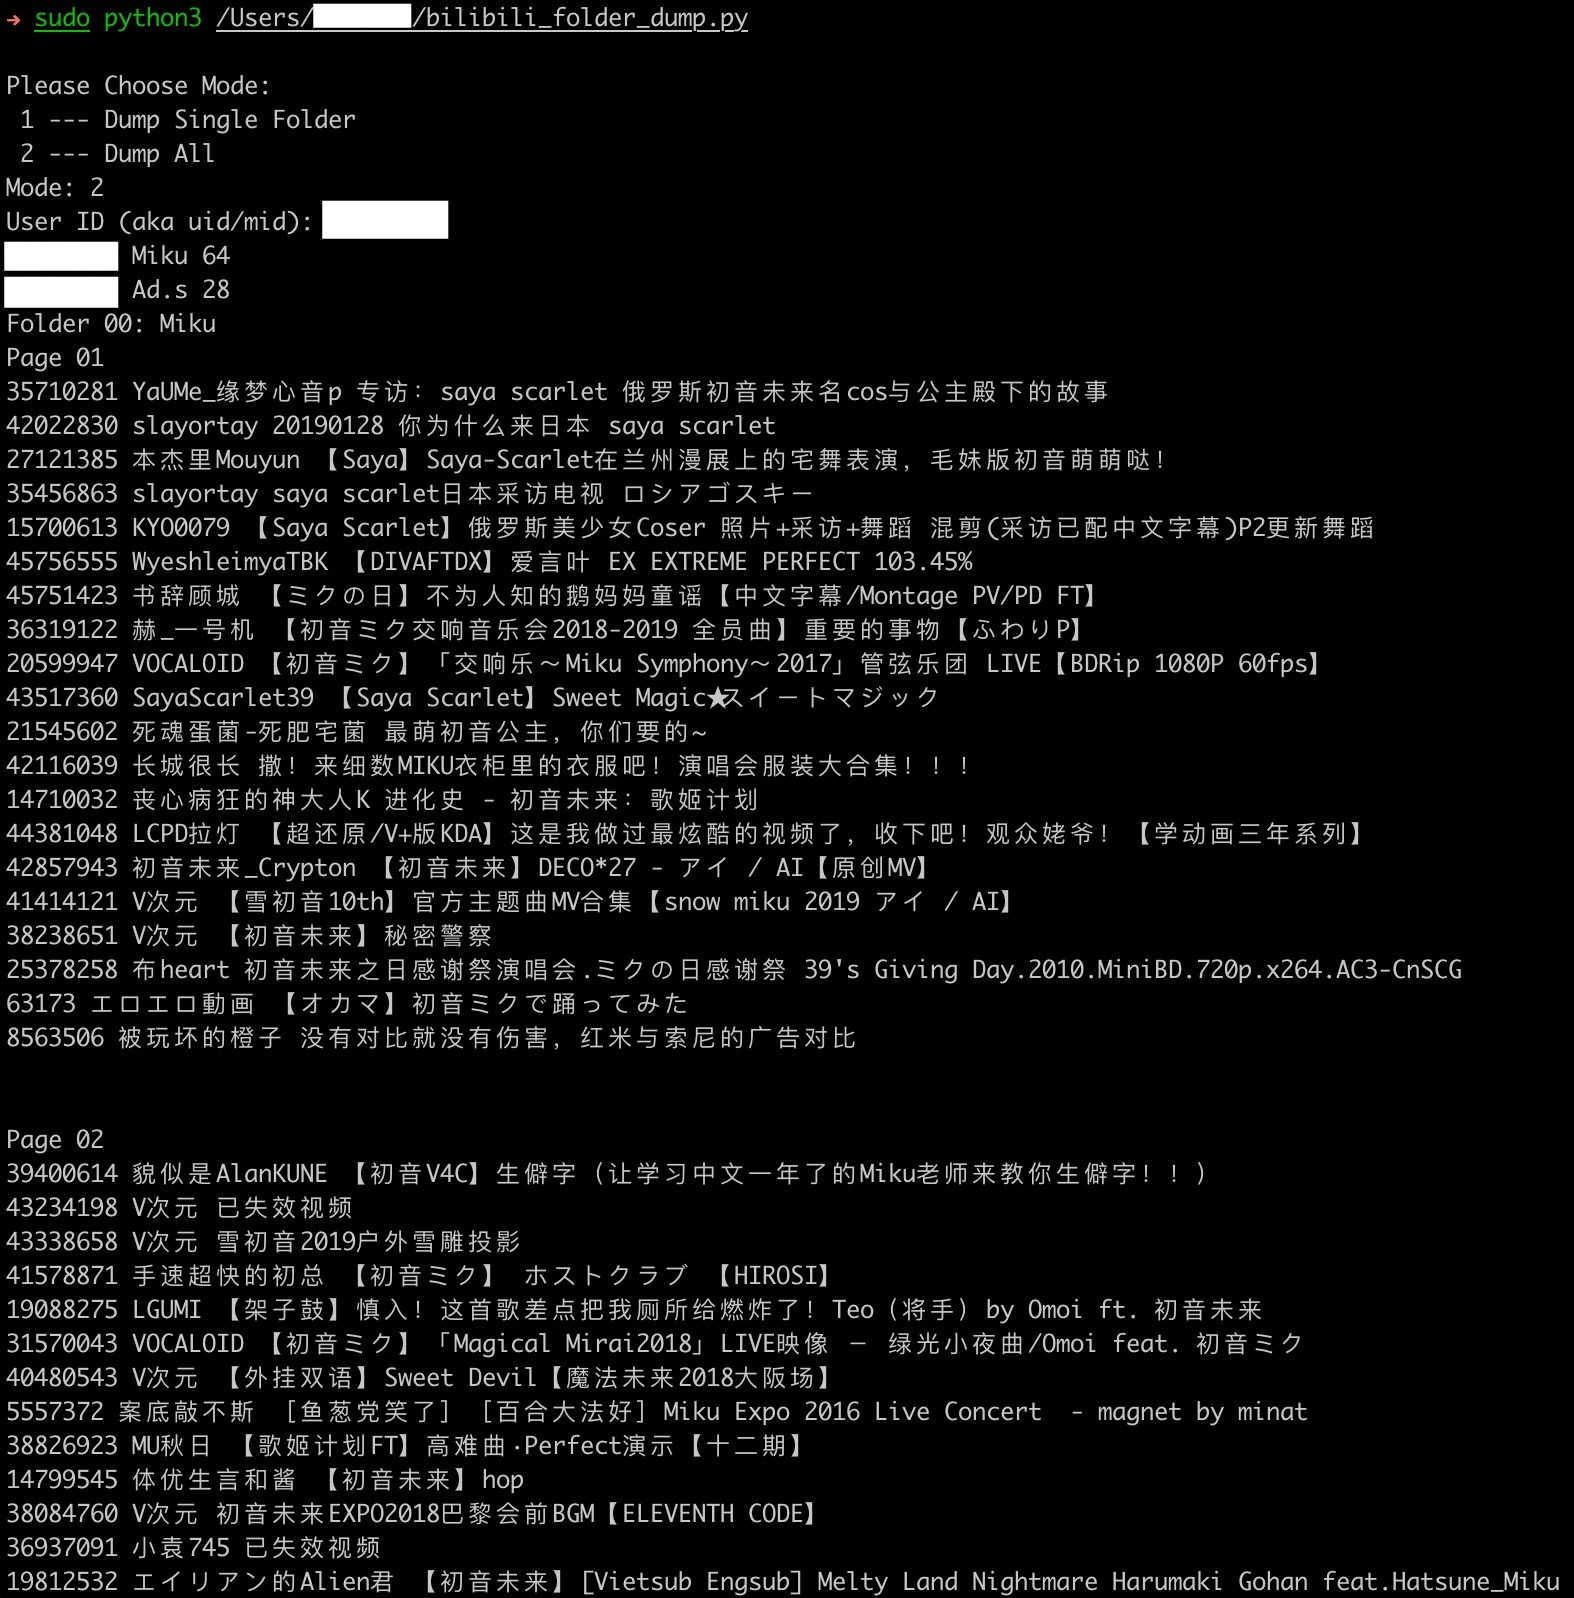
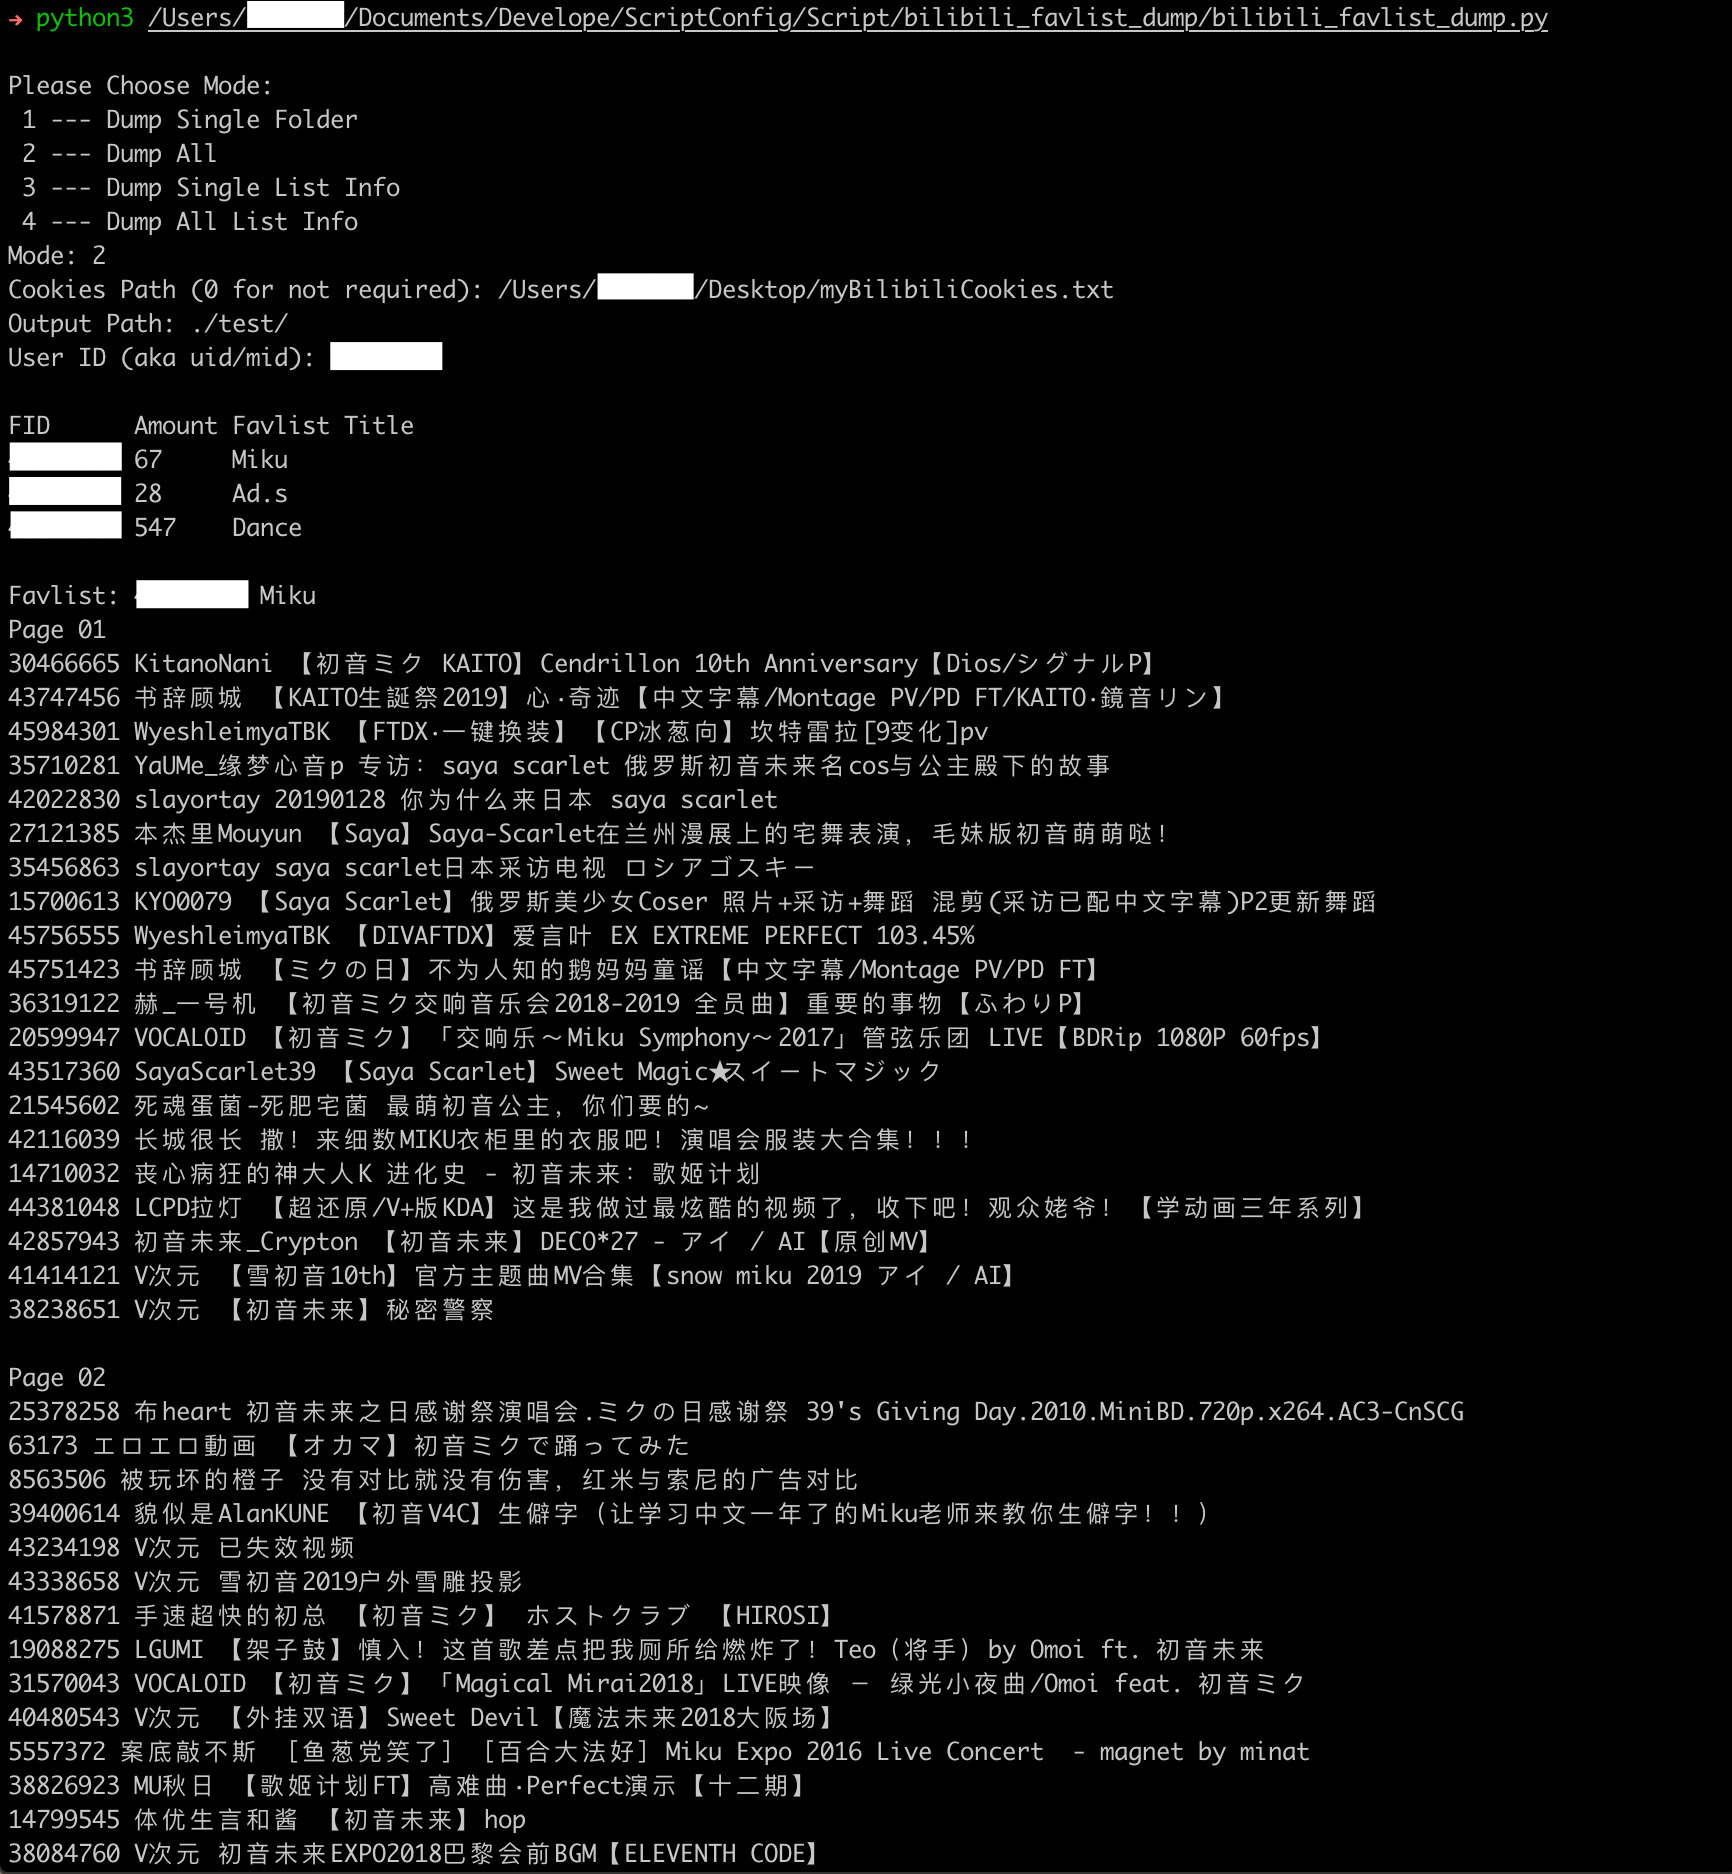
New Mode: Dump Info ONlY

diff --git a/bilibili_favlist_dump.py b/bilibili_favlist_dump.py
@@ -1,0 +1,264 @@
+#!/usr/bin/python3
+import os
+import json
+import requests
+import pathlib
+# import ffmpeg
+
+# f_cookies = open(r"./myBilibiliCookies.txt","r")
+# cookies = f_cookies.read()
+# f_cookies.close()
+
+# headers = {
+#     'Accept':'application/json, text/plain, text/plain;charset=UTF-8, */*',
+# #     'Accept-Encoding':'gzip, deflate, br',
+# #     'Accept-Language':'zh-CN,zh;q=0.9,en;q=0.8',
+# #     'Connection':'keep-alive',
+#     'Cookie': cookies,
+# #     'Host':'space.bilibili.com',
+# #     'Origin':'https://space.bilibili.com',
+# #     'Referer':'https://space.bilibili.com/uid/favlist?fid=',
+#     'User-Agent': 'Mozilla/5.0 (Macintosh; Intel Mac OS X 10_14_3) AppleWebKit/537.36 (KHTML, like Gecko) Chrome/72.0.3626.121 Safari/537.36'
+# }       
+
+prefix = 'https://api.bilibili.com/medialist/gateway/base/'
+
+def all_info_dump():
+	mid = input('User ID (aka uid/mid): ')
+
+	medialist_brief_jsonp = prefix + 'created?pn=1&ps=100&up_mid=' + str(mid) + '&is_space=0&jsonp=jsonp'
+
+	medialist_brief_jsonp_raw = requests.get(medialist_brief_jsonp).text
+	wdata = json.loads(medialist_brief_jsonp_raw)
+	medialist_count = wdata['data']['count']
+	medialist = wdata['data']['list']
+
+	medialist_brief = []
+	# medialist_brief.clear()
+	print("")
+	print("%-8s %-6s %s" % ('FID', 'Amount', 'Favlist Title'))
+	for favlist_item in medialist:    
+		fid = favlist_item['id']    
+		title = favlist_item['title']    
+		media_count = favlist_item['media_count']
+		medialist_brief.append({'fid': fid, 'title': title, 'media_count': media_count})	
+		print("%-8s %-6s %s" % (fid, media_count, title))
+	print("")
+
+	# Each individual medialist
+	medialist_detail = []
+	for i in range(len(medialist_brief)):
+		medialist_detail.append([])
+
+	for serial in range(0, medialist_count, 1):
+		print("Favlist: %-8s %-s" % (medialist_brief[serial]['fid'], medialist_brief[serial]['title']))
+		fid = medialist_brief[serial]['fid']
+		
+		if medialist_brief[serial]['media_count'] % 20 != 0:
+			page_num_max = int(medialist_brief[serial]['media_count'] / 20) + 1
+		else:
+			page_num_max = int(medialist_brief[serial]['media_count'] / 20)
+
+		for page_num in range(1, page_num_max + 1, 1):
+			medialist_detail_jsonp = prefix + 'spaceDetail?media_id=' + str(fid) +'&pn=' + str(page_num) +'&ps=20&keyword=&order=mtime&type=0&tid=0&jsonp=jsonp'
+			medialist_detail_raw = requests.get(medialist_detail_jsonp).text
+			wdata = json.loads(medialist_detail_raw)
+			medias = wdata['data']['medias']
+			
+			print("Page %02d" % (page_num))
+			for media_item in medias:    
+				media_item_detail = media_item_detail_dump(media_item)
+				medialist_detail[serial].append(media_item_detail)
+			print("")
+
+		medialist_detail_dump(medialist_detail[serial], medialist_brief[serial]['title'])
+
+	return (medialist_detail, medialist_brief)
+
+
+
+def single_info_dump():
+	fid = input('Medialist ID (aka fid): ')
+
+	medialist_detail_jsonp = prefix + 'spaceDetail?media_id=' + str(fid) +'&pn=1&ps=20&keyword=&order=mtime&type=0&tid=0&jsonp=jsonp'
+	medialist_detail_raw = requests.get(medialist_detail_jsonp).text
+	wdata = json.loads(medialist_detail_raw)
+	
+	media_count = wdata['data']['info']['media_count']
+	medialist_fid = wdata['data']['info']['fid']
+	medialist_title = wdata['data']['info']['title']
+
+	print("")
+	print("%-8s %-6s %s" % ('FID', 'Amount', 'Favlist Title'))
+	print("%-8s %-6s %s" % (medialist_fid, media_count, medialist_title))
+	print("")
+
+	if media_count != 0:
+		page_num_max = int(media_count / 20) + 1
+	else:
+		page_num_max = int(media_count / 20)
+
+	medialist_detail = []
+	for page_num in range(1, page_num_max + 1, 1):
+		medialist_detail_jsonp = prefix + 'spaceDetail?media_id=' + str(fid) +'&pn=' + str(page_num) +'&ps=20&keyword=&order=mtime&type=0&tid=0&jsonp=jsonp'
+		medialist_detail_raw = requests.get(medialist_detail_jsonp).text
+		wdata = json.loads(medialist_detail_raw)
+		medias = wdata['data']['medias']
+			
+		print("Page %02d" % (page_num))
+		for media_item in medias:    
+			media_item_detail = media_item_detail_dump(media_item)
+			medialist_detail.append(media_item_detail)
+		print("")
+
+	medialist_detail_dump(medialist_detail, medialist_title)
+		
+	return (medialist_detail, medialist_title)
+
+
+def media_item_detail_dump(media_item):
+	invalid = "已失效视频"
+
+	media_id = media_item['id']    
+	title = media_item['title']
+	media_page_num = int(media_item['page'])
+	sub_titles = []
+	if title != invalid:
+		for page in media_item['pages']:
+			sub_titles.append(page['title'])
+			# print(page['title'])
+	# intro = media_item['intro'] 
+	upper_mid = media_item['upper']['mid']
+	upper_name = media_item['upper']['name']
+	print(media_id, upper_name, title)
+	
+	media_item_detail = {'media_id': media_id, 'title': title, 'upper_mid': upper_mid, 'upper_name': upper_name, 'sub_titles': sub_titles, 'media_page_num': media_page_num}
+	return media_item_detail
+
+
+def medialist_detail_dump(medialist_detail, medialist_title):
+	media_page_sum = 0
+	valid_sum = 0
+	invalid = "已失效视频"
+
+	o_metadata=open(r"favlist_" + medialist_title + ".csv", "w", encoding='utf-8')
+	print("Media_ID, Upper_ID, Upper_Name, Title", file = o_metadata)
+	
+	for i in range(len(medialist_detail)):
+		print('av"%s", "%s", "%s", "%s"' % (medialist_detail[i]['media_id'], medialist_detail[i]['upper_mid'], medialist_detail[i]['upper_name'], medialist_detail[i]['title']), file = o_metadata)
+		media_page_sum += medialist_detail[i]['media_page_num']
+		if medialist_detail[i]['title'] != invalid:
+			valid_sum += medialist_detail[i]['media_page_num']
+
+	ps = "PS: Single Media_ID may contain multiple videos."
+	print("\n")
+	print('Media_Amount, Valid_Amount', file = o_metadata)
+	print('"%s", "%s", "%s"' % (media_page_sum, valid_sum, ps), file = o_metadata)
+	
+	print('Media Amount: "%s"' % (media_page_sum))
+	print('Valid Amount: "%s"' % (valid_sum))
+	print('PS: single Media_ID may contain multiple videos.')
+
+	print("\nDONE. Metadata file has been created in your current directory.")
+	o_metadata.close()
+
+
+def file_dump(item_list, dump_mode, cookie_path, output_path, title = ""):
+
+	# f_cookies = open(r"./myBilibiliCookies.txt","r")
+	# cookies = f_cookies.read()
+	# f_cookies.close()
+
+	favlist_title = "favlist_" + title + ".csv"
+	os.system('mv "%s" "%s"' % (favlist_title, output_path))
+	output_path = os.path.join(os.path.expanduser(output_path), title)
+	mkdir(output_path) 
+	
+	thread_amount = 15
+
+	for media_item in item_list: 
+		folder_basename = media_item['upper_name']
+		folder_path = os.path.join(os.path.expanduser(output_path), folder_basename)
+		mkdir(folder_path)
+
+		for sub_title in media_item['sub_titles']:
+
+			target_flv = media_item['title'] + ' ' + sub_title + '.flv'
+			target_mp4 = media_item['title'] + ' ' + sub_title + '.mp4'
+			
+			path_flv = pathlib.Path(os.path.join(os.path.expanduser(folder_path), target_flv))
+			path_mp4 = pathlib.Path(os.path.join(os.path.expanduser(folder_path), target_mp4))
+			# print("Current: " + target_flv)
+			# print("Current Target: " + os.path.join(os.path.expanduser(folder_path), target_flv))
+			
+			if not(path_flv.exists() or path_mp4.exists()):
+				if cookie_path == '0':
+					os.system('annie -n %d -o "%s" -p av%d' % (thread_amount, folder_path, media_item['media_id']))
+				else:
+					os.system('annie -n %d -c "%s" -o "%s" -p av%d' % (thread_amount, cookie_path, folder_path, media_item['media_id']))
+				# ffmpeg_repack(folder_path, media_item['title'])
+				print("--- DOWNLOAD COMPLETE --- " + target_flv)
+			else:
+				print("--- FILE Already Existed --- " + target_flv)
+			
+
+# def ffmpeg_repack(folder_path, title):
+# 	media_basename = os.path.join(os.path.expanduser(folder_path), title)
+# 	media_input = media_basename + '.flv'
+# 	media_output = media_basename + '.mp4'
+# 	stream = ffmpeg.input(media_input)
+# 	stream = ffmpeg.output(stream, media_output, **{'c': 'copy', 'movflags': '+faststart'})
+# 	ffmpeg.run(stream)
+
+
+
+def mkdir(path):
+	
+	folder = os.path.exists(path)
+	if not folder:                   
+		os.makedirs(path)            
+		print("---  MADE NEW DIR  ---")
+	else:
+		print("---  DIR Already Existed  ---")
+
+
+
+def __main__():
+	dump_mode = input("\nPlease Choose Mode:\n 1 --- Dump Single Folder\n 2 --- Dump All\n 3 --- Dump Single List Info\n 4 --- Dump All List Info\nMode: ")
+
+	if dump_mode == '1':
+		cookie_path = input('Cookies Path (0 for not required): ')
+		output_path = input('Output Path: ')
+
+		medialist_info_set = single_info_dump()
+		medialist_detail = medialist_info_set[0]
+		medialist_title = medialist_info_set[1]
+		file_dump(medialist_detail, dump_mode, cookie_path, output_path, title = medialist_title)
+	
+	elif dump_mode == '2':
+		cookie_path = input('Cookies Path (0 for not required): ')
+		output_path = input('Output Path: ')
+
+		medialist_info_set = all_info_dump()
+		medialist_detail = medialist_info_set[0]
+		medialist_brief = medialist_info_set[1]
+		serial = 0
+		for medialist in medialist_detail: 
+			title = medialist_brief[serial]['title']
+			file_dump(medialist_detail[serial], dump_mode, cookie_path, output_path, title = title)
+			serial += 1
+
+	elif dump_mode == '3':
+		medialist_info_set = single_info_dump()
+
+	elif dump_mode == '4':
+		medialist_detail = all_info_dump()
+
+	print('\nALL COMPLETE')
+
+__main__()
+
+
+
+
+

diff --git a/README.md b/README.md
@@ -1,10 +1,10 @@
-# Bilibili Folder Dump
+# Bilibili Favlist Dump
 
 ## Feature
-- Crawl Bilibili Public Folders
-- Crawl all the public folders of one user or the specific one (**Public Only**)
+- Crawl Bilibili Public Favlist
+- Crawl all the public Favlist of one user or the specific one (**Public Only**)
 - **Auto-sort** downloads by uploder name automatically
-- Auto-build **csv** files for each folder
+- Auto-build **csv** files for each Favlist
 
 ## Requirement
 - Python3
@@ -36,10 +36,15 @@
 1. Open up any terminal app (e.g. macOS - Teriminal.app, Windows - CMD and etc.) and input command `python3 [SCRIPT_PATH]`
 
 2. When `Please Choose Mode:` displayed<br>
-	- Input `1`: Dump Single Folder (fid will be required)
-		- It will download all of the videos in the chosen folder. 
-	- Input `2`: Dump All (uid/mid will be required)
-		- It will download the videos in every folder which is public by the target user. 
+
+	- Input `1`: Dump Single Favlist (`fid` required)
+		- It will dump all the info and videos of the chosen Favlist. 
+	- Input `2`: Dump All Favlists (`uid/mid` required)
+		- It will dump the info and videos in every Favlist, which is set Public by the user. 
+	- Input `3`: Dump Single Favlist (Info Only) (`fid` required)
+		- It will dump the info of of the chosen Favlist. 
+	- Input `4`: Dump All Favlists (Info Only) (`uid/mid` required)
+		- It will dump the info in every Favlist, which is set Public by the user. 
 
 3. When `Cookies Path (0 for not required): ` displayed<br>
 	- Please input the path to load the Cookies (for hi-definition version videos' requirement).
@@ -54,6 +59,15 @@
 5. When `User ID (aka uid/mid): ` or `Medialist ID (aka fid): ` displayed<br> 
 	- Please input the uid/mid or fid (depend on the mode you chosen)
 
+## Reference of CSV
+- Any Mode option will build a csv file automatically which inludes the elements below
+	- `Media_ID`: The ID of the video in Bilibili, e.g. av3046665
+	- `Media_Title`: The video's title in Bilibili
+	- `Upper_ID`: The ID of the video uploader in Bilibili, e.g. 2811374
+	- `Upper_Name`: The name of the video uploader in Bilibili
+	- `Media_Amount`: The sum of the videos in the Favlist (One `Media_ID` may contain multiple videos)
+	- `Valid_Amount`: The sum of the videos, which is not invalid, in the Favlist
+	
 ## *Additonal
 > Not included in the Python script
 
